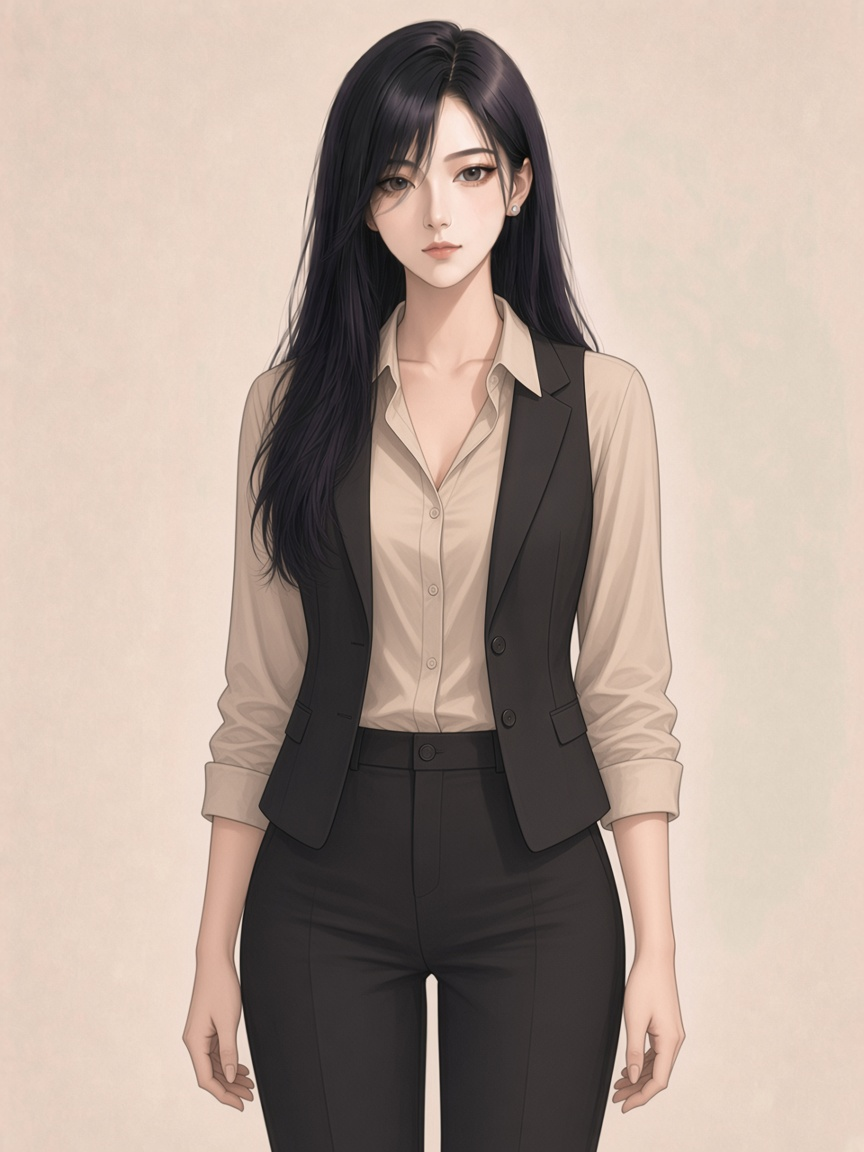
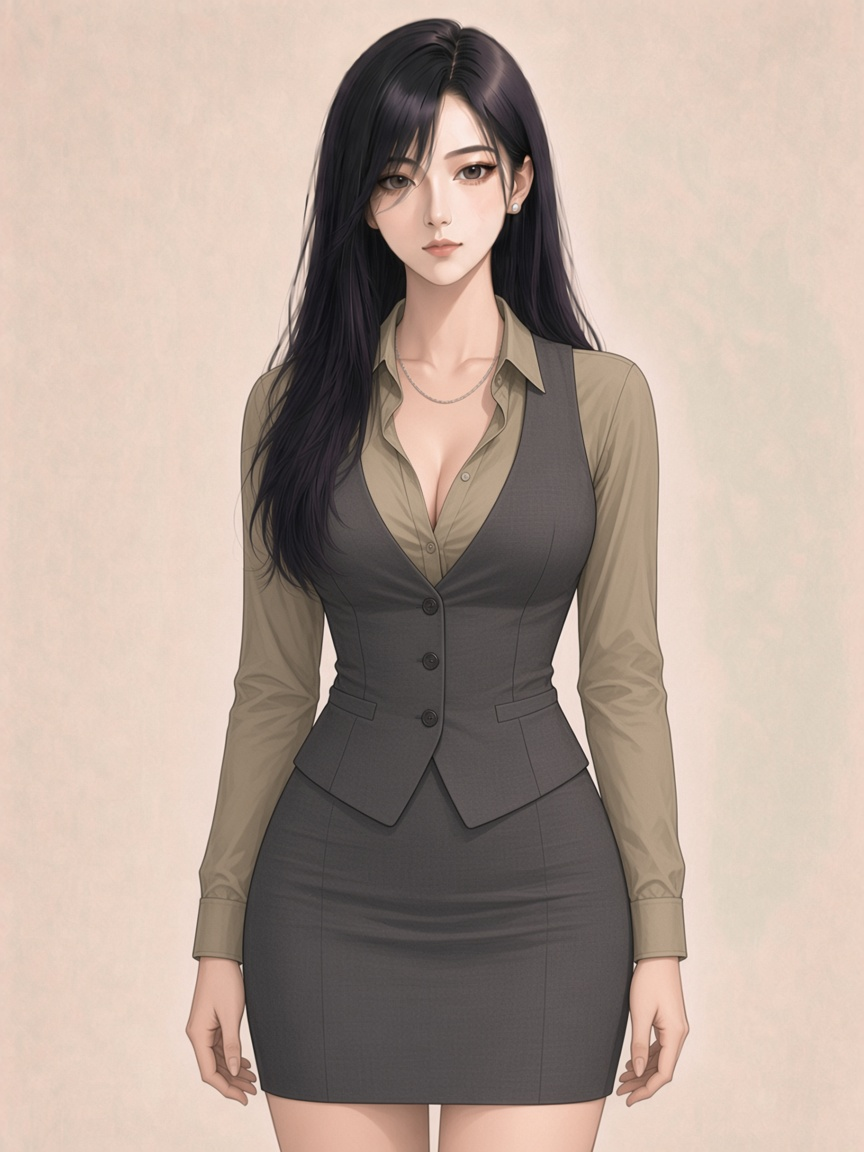
Enlarge only the bust and keep the waist and legs slim.

diff --git a/portrait.js b/portrait.js
@@ -1,4 +1,4 @@
-/* 原创角色沈晚。同一张脸，30 套衣服按日期轮换。腰和腿再瘦一档。 */
+/* 原创角色沈晚。同一张脸，30 套衣服按日期轮换。胸更大，腰和腿保持细。 */
 const OUTFITS = [
   { name: "深灰高领，黑风衣", file: "outfit-01.png" },
   { name: "白衬衫，墨蓝背心裙", file: "outfit-02.png" },
